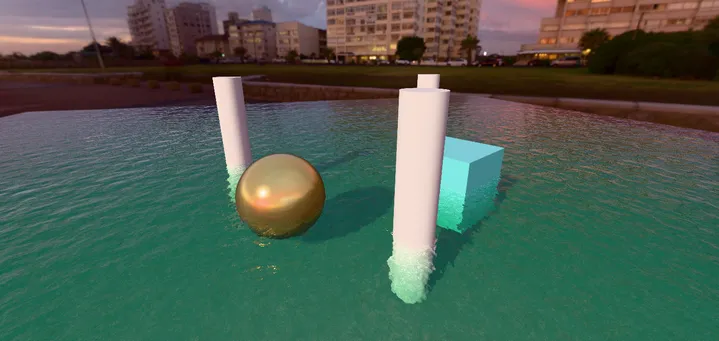
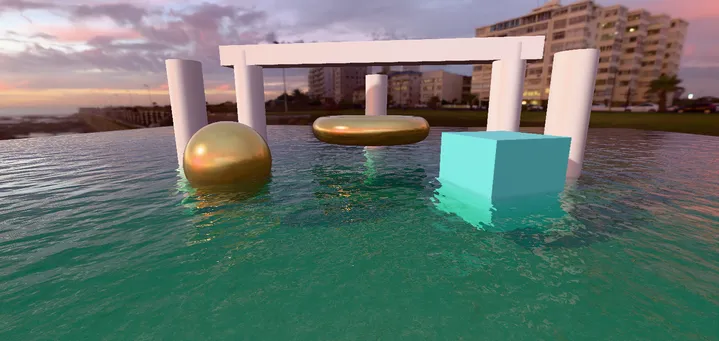
SSR 반사 관찰을 위한 구조물 배치 및 카메라 설정 최적화 (기둥, 게이트, 링 등 추가) 및 샘플 이미지(thumbnail) 업데이트

diff --git a/examples/3d/water/lake/wavesAndOptics/index.js b/examples/3d/water/lake/wavesAndOptics/index.js
@@ -15,11 +15,11 @@ document.body.appendChild(canvas);
 RedGPU.init(
     canvas,
     (redGPUContext) => {
-        // 1. 카메라 컨트롤러 설정
+        // 1. 카메라 컨트롤러 설정 (SSR 파도 반사가 선명하게 보이도록 근접 조망각 설정)
         const controller = new RedGPU.Camera.OrbitController(redGPUContext);
-        controller.distance = 34;
-        controller.tilt = -16;
-        controller.pan = 25;
+        controller.distance = 20;
+        controller.tilt = -13;
+        controller.pan = 10;
         controller.speedDistance = 0.3;
 
         // 2. 씬 및 뷰 구성
@@ -129,17 +129,17 @@ function createUnderwaterEnvironment(redGPUContext, scene) {
         scene.addChild(box);
     });
 
-    // 3. 굴절 관찰용 수중/수면 랜드마크 기둥 및 구체
+    // 3. 굴절 및 SSR 관찰용 수중/수면 랜드마크 기둥 및 구체 (카메라 전면 배치)
     const columnMaterial = new RedGPU.Material.PBRMaterial(redGPUContext);
     columnMaterial.baseColorFactor = [0.75, 0.25, 0.25, 1.0];
     columnMaterial.roughnessFactor = 0.3;
     columnMaterial.metallicFactor = 0.1;
 
-    const columnGeom = new RedGPU.Primitive.Cylinder(redGPUContext, 0.6, 0.6, 7.0, 24);
+    const columnGeom = new RedGPU.Primitive.Cylinder(redGPUContext, 0.6, 0.6, 6.0, 24);
     const colMesh = new RedGPU.Display.Mesh(redGPUContext, columnGeom, columnMaterial);
-    colMesh.x = -6;
-    colMesh.y = 1.0;
-    colMesh.z = 4;
+    colMesh.x = -5.2;
+    colMesh.y = 0.5;
+    colMesh.z = 1.0;
     colMesh.castShadow = true;
     scene.addChild(colMesh);
 
@@ -150,14 +150,83 @@ function createUnderwaterEnvironment(redGPUContext, scene) {
 
     const sphereMesh = new RedGPU.Display.Mesh(
         redGPUContext,
-        new RedGPU.Primitive.Sphere(redGPUContext, 1.6, 24, 24),
+        new RedGPU.Primitive.Sphere(redGPUContext, 1.5, 24, 24),
         metalMaterial
     );
-    sphereMesh.x = 0;
-    sphereMesh.y = -0.4;
-    sphereMesh.z = 4;
+    sphereMesh.x = 5.2;
+    sphereMesh.y = 0.3;
+    sphereMesh.z = 1.0;
     sphereMesh.castShadow = true;
     scene.addChild(sphereMesh);
+
+    // 4. 수면 공간 반사(SSR) 관찰용 키 큰 오벨리스크 타워 및 메탈릭 기둥군 (넓은 간격과 수면 근접 배치)
+    // 파도가 출렁일 때 수면에 맺힌 반사상이 실시간으로 일렁이고 왜곡되는 모습을 극적으로 관찰 가능
+    const darkObsidian = new RedGPU.Material.PBRMaterial(redGPUContext);
+    darkObsidian.baseColorFactor = [0.12, 0.14, 0.18, 1.0];
+    darkObsidian.roughnessFactor = 0.18;
+    darkObsidian.metallicFactor = 0.85;
+
+    // 중앙 12m 오벨리스크 타워
+    const towerMesh = new RedGPU.Display.Mesh(
+        redGPUContext,
+        new RedGPU.Primitive.Box(redGPUContext, 1.8, 11.0, 1.8),
+        darkObsidian
+    );
+    towerMesh.x = 0.0;
+    towerMesh.y = 3.5;
+    towerMesh.z = -5.5;
+    towerMesh.castShadow = true;
+    scene.addChild(towerMesh);
+
+    // 타워 하단 수면에 가깝게 걸린 비취색 메탈릭 링 (수면 맞닿음으로 선명한 SSR 반사상 형성)
+    const cyanMetal = new RedGPU.Material.PBRMaterial(redGPUContext);
+    cyanMetal.baseColorFactor = [0.10, 0.85, 0.85, 1.0];
+    cyanMetal.roughnessFactor = 0.12;
+    cyanMetal.metallicFactor = 0.95;
+
+    const towerRing = new RedGPU.Display.Mesh(
+        redGPUContext,
+        new RedGPU.Primitive.Torus(redGPUContext, 2.5, 0.65, 32, 32),
+        cyanMetal
+    );
+    towerRing.x = 0.0;
+    towerRing.y = 1.5;
+    towerRing.z = -5.5;
+    towerRing.castShadow = true;
+    scene.addChild(towerRing);
+
+    // 좌/우측 대비용 10m 루비/오렌지색 기둥 타워 (폭넓게 배치)
+    const rubyMaterial = new RedGPU.Material.PBRMaterial(redGPUContext);
+    rubyMaterial.baseColorFactor = [0.95, 0.25, 0.20, 1.0];
+    rubyMaterial.roughnessFactor = 0.2;
+    rubyMaterial.metallicFactor = 0.7;
+
+    const rubyPillar = new RedGPU.Display.Mesh(
+        redGPUContext,
+        new RedGPU.Primitive.Cylinder(redGPUContext, 0.75, 0.75, 9.0, 24),
+        rubyMaterial
+    );
+    rubyPillar.x = -7.5;
+    rubyPillar.y = 1.5;
+    rubyPillar.z = -5.5;
+    rubyPillar.castShadow = true;
+    scene.addChild(rubyPillar);
+
+    const amberMaterial = new RedGPU.Material.PBRMaterial(redGPUContext);
+    amberMaterial.baseColorFactor = [0.95, 0.65, 0.15, 1.0];
+    amberMaterial.roughnessFactor = 0.2;
+    amberMaterial.metallicFactor = 0.7;
+
+    const amberPillar = new RedGPU.Display.Mesh(
+        redGPUContext,
+        new RedGPU.Primitive.Cylinder(redGPUContext, 0.75, 0.75, 9.0, 24),
+        amberMaterial
+    );
+    amberPillar.x = 7.5;
+    amberPillar.y = 1.5;
+    amberPillar.z = -5.5;
+    amberPillar.castShadow = true;
+    scene.addChild(amberPillar);
 }
 
 /**

diff --git a/examples/3d/water/lake/basicLake/index.js b/examples/3d/water/lake/basicLake/index.js
@@ -15,11 +15,11 @@ document.body.appendChild(canvas);
 RedGPU.init(
     canvas,
     (redGPUContext) => {
-        // 1. 카메라 컨트롤러 설정
+        // 1. 카메라 컨트롤러 설정 (SSR이 화면에 가득 차도록 최적 조망각 설정)
         const controller = new RedGPU.Camera.OrbitController(redGPUContext);
-        controller.distance = 32;
-        controller.tilt = -18;
-        controller.pan = 35;
+        controller.distance = 18;
+        controller.tilt = -12;
+        controller.pan = 8;
         controller.speedDistance = 0.3;
 
         // 2. 씬 및 뷰 구성
@@ -110,9 +110,9 @@ function createEnvironment(redGPUContext, scene) {
 
     const pillarGeom = new RedGPU.Primitive.Cylinder(redGPUContext, 0.7, 0.7, 7.0, 24);
     const pillarPositions = [
-        {x: -6, z: -4},
-        {x: 6, z: -4},
-        {x: 0, z: 6},
+        {x: -8.0, z: -1.0},
+        {x: 8.0, z: -1.0},
+        {x: 0, z: -8.0},
     ];
 
     pillarPositions.forEach(pos => {
@@ -125,7 +125,7 @@ function createEnvironment(redGPUContext, scene) {
         scene.addChild(pillar);
     });
 
-    // 3. 비교용 기하체 (구체 및 큐브)
+    // 3. 비교용 기하체 (구체 및 큐브 - 좌우로 넓게 분산 배치)
     const goldMaterial = new RedGPU.Material.PBRMaterial(redGPUContext);
     goldMaterial.baseColorFactor = [0.95, 0.75, 0.25, 1.0];
     goldMaterial.roughnessFactor = 0.2;
@@ -133,12 +133,12 @@ function createEnvironment(redGPUContext, scene) {
 
     const sphereMesh = new RedGPU.Display.Mesh(
         redGPUContext,
-        new RedGPU.Primitive.Sphere(redGPUContext, 1.8, 24, 24),
+        new RedGPU.Primitive.Sphere(redGPUContext, 1.6, 24, 24),
         goldMaterial
     );
-    sphereMesh.x = -4.0;
-    sphereMesh.y = 0.0;
-    sphereMesh.z = 2.0;
+    sphereMesh.x = -5.0;
+    sphereMesh.y = 0.4;
+    sphereMesh.z = 1.0;
     sphereMesh.castShadow = true;
     scene.addChild(sphereMesh);
 
@@ -149,15 +149,65 @@ function createEnvironment(redGPUContext, scene) {
 
     const boxMesh = new RedGPU.Display.Mesh(
         redGPUContext,
-        new RedGPU.Primitive.Box(redGPUContext, 3.5, 3.5, 3.5),
+        new RedGPU.Primitive.Box(redGPUContext, 2.8, 2.8, 2.8),
         tealMaterial
     );
-    boxMesh.x = 4.5;
-    boxMesh.y = -0.5;
-    boxMesh.z = 1.5;
+    boxMesh.x = 5.0;
+    boxMesh.y = 0.2;
+    boxMesh.z = 1.0;
     boxMesh.rotationY = 25;
     boxMesh.castShadow = true;
     scene.addChild(boxMesh);
+
+    // 4. 수면 공간 반사(SSR) 관찰용 고대 신전 아치 게이트 및 공중 황금 링 (넓은 폭과 수면 근접 배치)
+    const marbleWhite = new RedGPU.Material.PBRMaterial(redGPUContext);
+    marbleWhite.baseColorFactor = [0.92, 0.90, 0.88, 1.0];
+    marbleWhite.roughnessFactor = 0.25;
+    marbleWhite.metallicFactor = 0.1;
+
+    const gatePillarGeom = new RedGPU.Primitive.Cylinder(redGPUContext, 0.75, 0.75, 8.5, 24);
+    const leftGatePillar = new RedGPU.Display.Mesh(redGPUContext, gatePillarGeom, marbleWhite);
+    leftGatePillar.x = -6.8;
+    leftGatePillar.y = 1.2;
+    leftGatePillar.z = -4.5;
+    leftGatePillar.castShadow = true;
+    scene.addChild(leftGatePillar);
+
+    const rightGatePillar = new RedGPU.Display.Mesh(redGPUContext, gatePillarGeom, marbleWhite);
+    rightGatePillar.x = 6.8;
+    rightGatePillar.y = 1.2;
+    rightGatePillar.z = -4.5;
+    rightGatePillar.castShadow = true;
+    scene.addChild(rightGatePillar);
+
+    // 기둥 위를 가로지르는 대들보 빔 (확장된 16m 빔)
+    const beamMesh = new RedGPU.Display.Mesh(
+        redGPUContext,
+        new RedGPU.Primitive.Box(redGPUContext, 16.0, 1.0, 1.4),
+        marbleWhite
+    );
+    beamMesh.x = 0;
+    beamMesh.y = 5.2;
+    beamMesh.z = -4.5;
+    beamMesh.castShadow = true;
+    scene.addChild(beamMesh);
+
+    // 신전 게이트 중앙 수면에 가깝게 배치된 메탈릭 황금 링 (수면 맞닿음으로 선명한 SSR 반사상 형성)
+    const ringMaterial = new RedGPU.Material.PBRMaterial(redGPUContext);
+    ringMaterial.baseColorFactor = [1.0, 0.78, 0.28, 1.0];
+    ringMaterial.roughnessFactor = 0.15;
+    ringMaterial.metallicFactor = 0.95;
+
+    const ringMesh = new RedGPU.Display.Mesh(
+        redGPUContext,
+        new RedGPU.Primitive.Torus(redGPUContext, 2.5, 0.65, 32, 32),
+        ringMaterial
+    );
+    ringMesh.x = 0;
+    ringMesh.y = 1.4;
+    ringMesh.z = -4.5;
+    ringMesh.castShadow = true;
+    scene.addChild(ringMesh);
 }
 
 /**

diff --git a/examples/3d/water/lake/interaction/index.js b/examples/3d/water/lake/interaction/index.js
@@ -10,8 +10,8 @@ RedGPU.init(
         // 1. 카메라 및 컨트롤러 설정
         const controller = new RedGPU.Camera.OrbitController(redGPUContext);
         controller.distance = 18;
-        controller.tilt = -22;
-        controller.pan = 35;
+        controller.tilt = -14;
+        controller.pan = 18;
         controller.minDistance = 4;
         controller.maxDistance = 60;
         controller.speedDistance = 0.2;
@@ -87,7 +87,7 @@ RedGPU.init(
         const motionState = {
             autoMove: true,
             moveSpeed: 1.2,
-            moveRadius: 4.5,
+            moveRadius: 3.8,
             bobbingAmplitude: 0.25,
             time: 0,
         };
@@ -161,6 +161,46 @@ function createUnderwaterEnvironment(redGPUContext, scene) {
         pillar.receiveShadow = true;
         scene.addChild(pillar);
     }
+
+    // 수면 공간 반사(SSR) 관찰용 거대 골든 포털 링 게이트 및 지지 타워 (수면 위 7~8m)
+    // 구체가 회전하며 생성하는 실시간 2D 잔물결 파동(Dynamic Ripples) 위로 게이트의 반사상이 파동치며 일렁이는 모습을 극적으로 체감
+    const gateGold = new RedGPU.Material.PBRMaterial(redGPUContext);
+    gateGold.baseColorFactor = [1.0, 0.75, 0.25, 1.0];
+    gateGold.roughnessFactor = 0.15;
+    gateGold.metallicFactor = 0.95;
+
+    // 거대 원형 토러스 포털 링 (수면 근접 배치: y=1.5)
+    const portalRing = new RedGPU.Display.Mesh(
+        redGPUContext,
+        new RedGPU.Primitive.Torus(redGPUContext, 3.2, 0.70, 32, 32),
+        gateGold
+    );
+    portalRing.x = 0;
+    portalRing.y = 1.5;
+    portalRing.z = -5.2;
+    portalRing.castShadow = true;
+    scene.addChild(portalRing);
+
+    // 좌우측 지지 타워 (넓은 간격: x=±6.5)
+    const towerMat = new RedGPU.Material.PBRMaterial(redGPUContext);
+    towerMat.baseColorFactor = [0.85, 0.88, 0.92, 1.0];
+    towerMat.roughnessFactor = 0.25;
+    towerMat.metallicFactor = 0.3;
+
+    const towerGeom = new RedGPU.Primitive.Cylinder(redGPUContext, 0.75, 0.75, 8.5, 24);
+    const leftGate = new RedGPU.Display.Mesh(redGPUContext, towerGeom, towerMat);
+    leftGate.x = -6.5;
+    leftGate.y = 1.2;
+    leftGate.z = -5.2;
+    leftGate.castShadow = true;
+    scene.addChild(leftGate);
+
+    const rightGate = new RedGPU.Display.Mesh(redGPUContext, towerGeom, towerMat);
+    rightGate.x = 6.5;
+    rightGate.y = 1.2;
+    rightGate.z = -5.2;
+    rightGate.castShadow = true;
+    scene.addChild(rightGate);
 }
 
 /**
